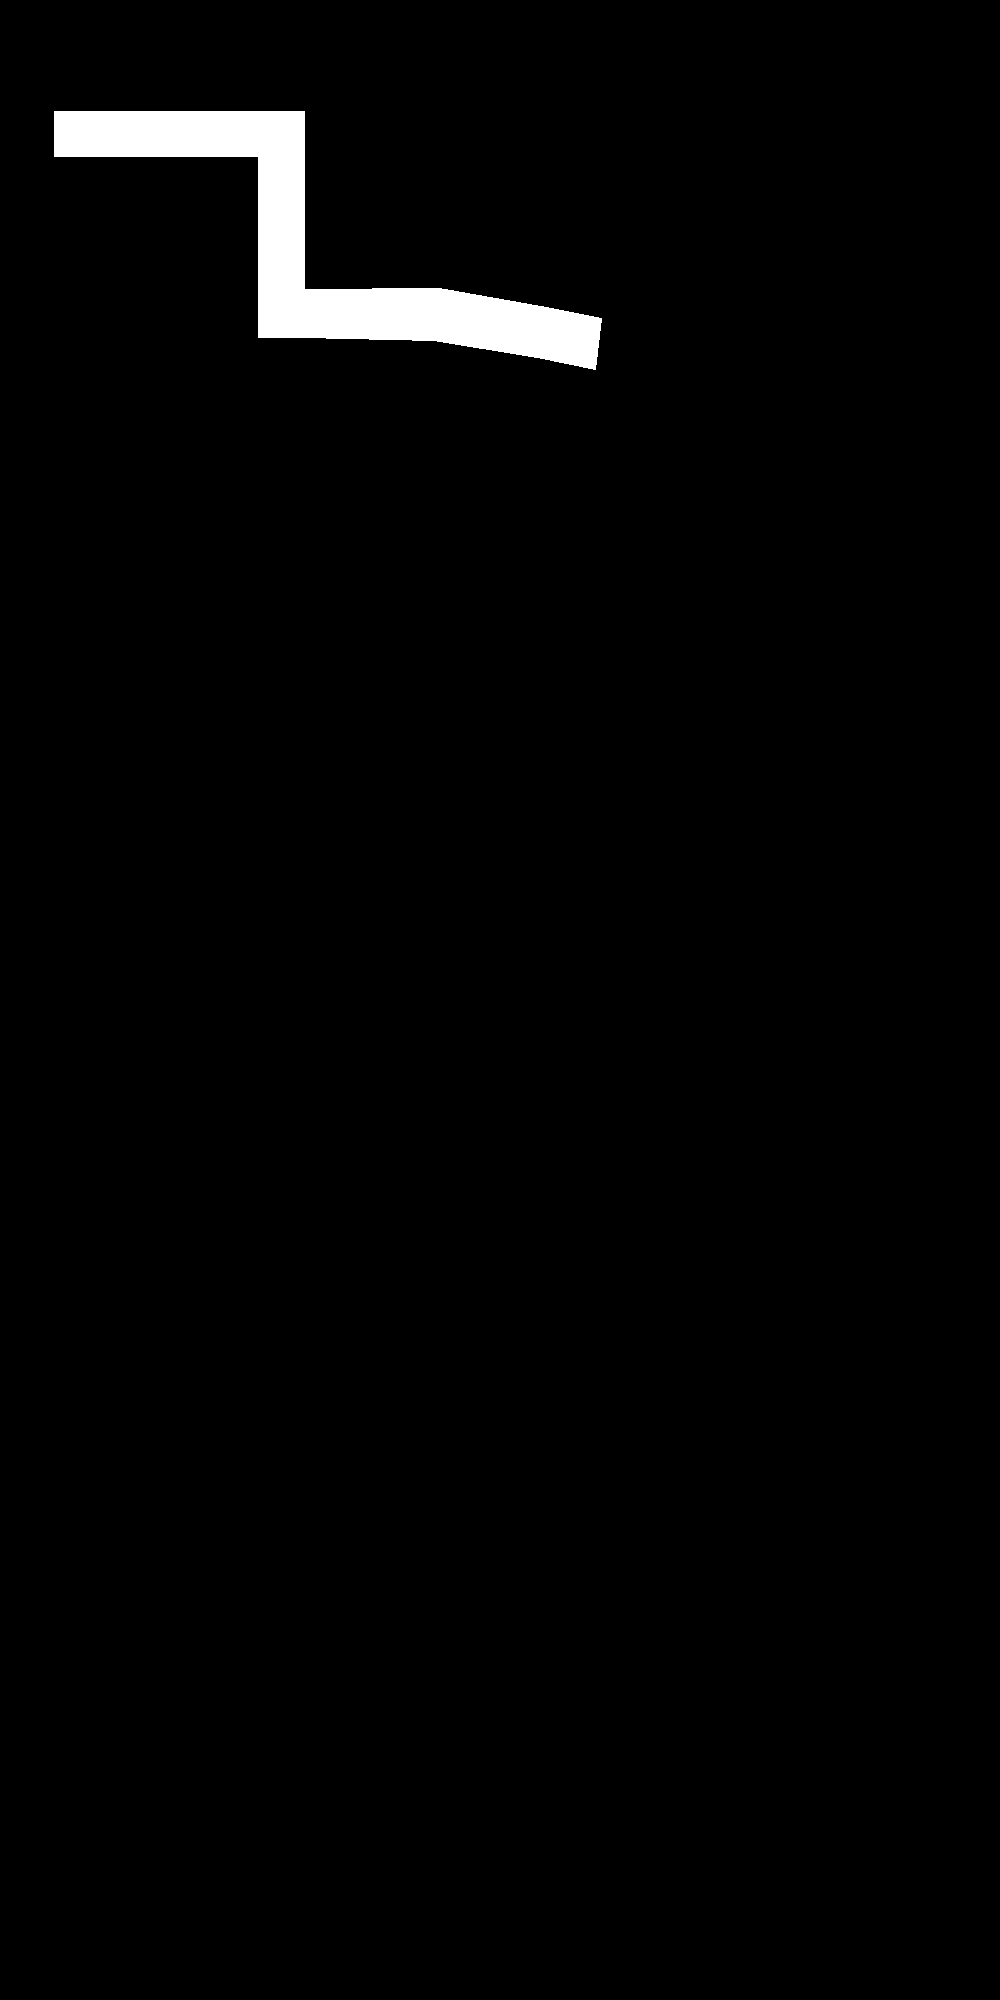
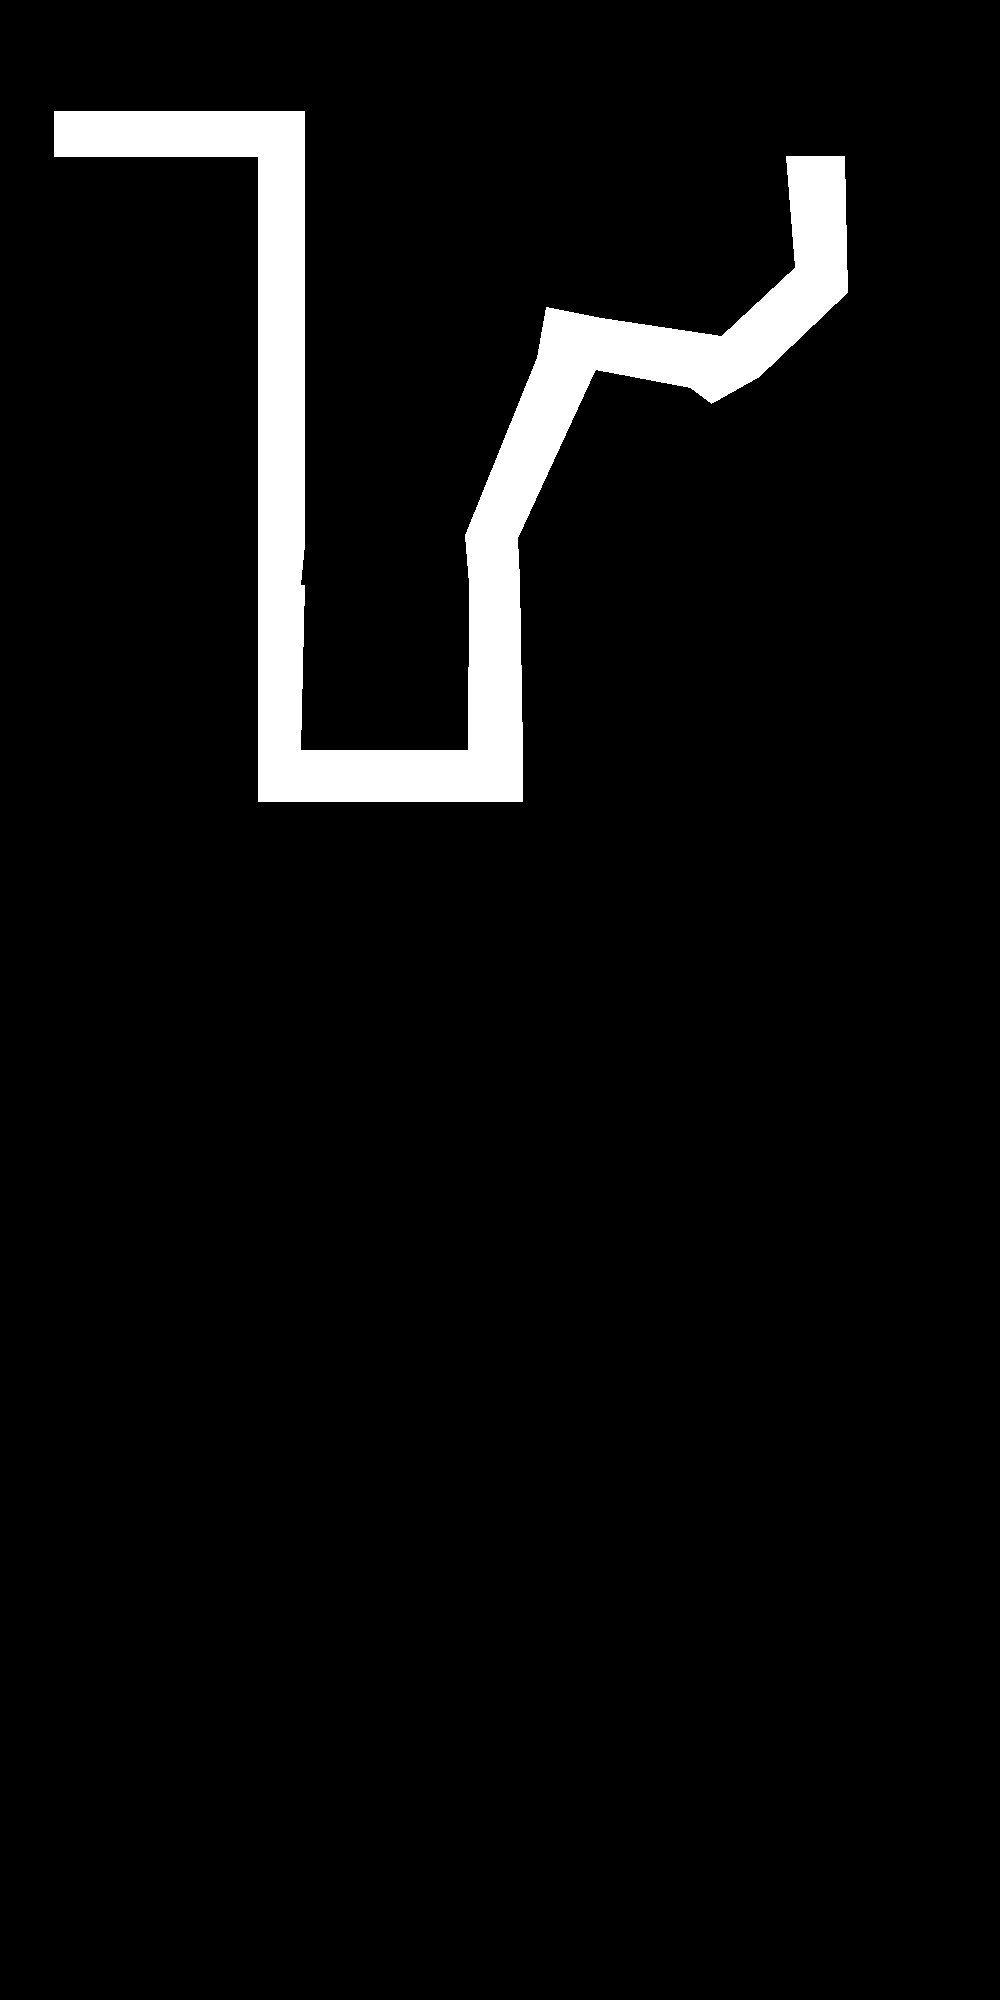
steering

Changed region(s): [[0.248, 0.062, 0.868, 0.403]]

diff --git a/test.py b/test.py
@@ -10,12 +10,13 @@ import math
 from utils import euclide_distance
 from distance import distance_to_borders, distance_to_obstacles
 from virtual_map import Map 
-from controller import get_steering_controller
+from controller import get_steering_controller, get_speed_controller
 
 import numpy as np 
 
 from obstacle import init_obstacle_from_pos
 steering_controller = get_steering_controller()
+speed_controller = get_speed_controller()
 
 ROAD_SCALE = 1.5
 
@@ -51,6 +52,7 @@ class Road():
             display.blit(self.textsurface, self.textsurface_loc)
 
     def clicked(self,display):
+        print(self.points)
         self.is_chosen = not self.is_chosen
         if self.is_chosen:
             self.color = (0,255,0)
@@ -61,7 +63,7 @@ class Road():
     def update(self):
         if self.type == 'intersection':
             self.count = (self.count+1)%self.time
-            self.textsurface = self.myfont.render(str(self.count), False, (0, 0, 0))
+            self.textsurface = self.myfont.render(str(6-self.count/10), False, (0, 0, 0))
             # self.draw(display)
             # 
             self.textsurface_loc = ((self.pts1[0]+self.pts3[0])/2,(self.pts1[1]+self.pts3[1])/2)
@@ -84,12 +86,13 @@ def rotate(origin, point, angle):
     return qx, qy
 
 class Car(pygame.sprite.Sprite):
-    def __init__(self, x, y, w, h, steering_controller, virtual_map, routes=None):
+    def __init__(self, x, y, w, h, steering_controller, speed_controller, virtual_map, routes=None):
         self.image = pygame.transform.scale(pygame.image.load("car.png"), (w,h))
         self.rect = self.image.get_rect()
         self.rect.left = x
         self.rect.top = y
         self.steering_controller = steering_controller
+        self.speed_controller = speed_controller
         # self.front_left = [x+w/2,y+h/2]
         # self.front_right = [x+w/2,y-h/2]
         # self.back_left = [x-w/2,y+h/2]
@@ -100,7 +103,7 @@ class Car(pygame.sprite.Sprite):
         self.routes = routes
         self.road_idx = 0
         self.virtual_map = virtual_map
-
+        self.speed=3
 
         # 
         self.distanceL = None 
@@ -213,22 +216,35 @@ class Car(pygame.sprite.Sprite):
         if self.distanceR45 is not None:
             pygame.draw.line(display, (255, 0, 0), self.front_right, self.impactR45)
 
+    def cal_speed(self):
+        
+        self.speed_controller.input['deviation'] = 100.0*self.distanceR /(self.distanceL+self.distanceR)
+        self.speed_controller.input['lightstatus'] = self.redlight_time
+        self.speed_controller.input['distance'] = min(100, self.redlight_distance)
+        self.speed_controller.compute()
+        # self.speed = min(self.speed, 3*self.speed_controller.output['speed']/100)
+        self.speed = 5*self.speed_controller.output['speed']/100
+        print(self.redlight_distance, self.speed)
+        # print(self.time2changeRedlight, self.distanceRedLight, self.speed
+
     def update(self, display):
         #
-        self.move_forward()
         self.compute_pos_sensors()
         if self.road_idx+1==len(self.routes):
             return False
         self.sensor_redlight()
         self.compute_distance()
+        # self.cal_speed()
         angle = self.cal_steering_angle()
         self.rotate(angle)
+        self.move_forward()
         self.draw(display)
         return True
     
     def cal_steering_angle(self):
-        print(self.distanceFL,self.distanceFR)
-        self.steering_controller.input['deviation'] = 100.0*self.distanceR45 /(self.distanceR45+self.distanceL45)
+        print(100.0*self.distanceR45 /(self.distanceR45+self.distanceL45))
+        self.steering_controller.input['deviation45'] = 100.0*self.distanceR45 /(self.distanceR45+self.distanceL45)
+        # self.steering_controller.input['deviation'] = 100.0*self.distanceR /(self.distanceR+self.distanceL)
         # self.steering_controller.input['deviation_back'] = 100.0*self.distanceBackR /(self.distanceBackL+self.distanceBackR)
         self.steering_controller.compute()
         # steering = math.radians(self.steering_controller.output['steering']-180)/900
@@ -238,7 +254,7 @@ class Car(pygame.sprite.Sprite):
         return steering
 
     def move_forward(self):
-        s = 3
+        s = self.speed
         curCenterX, curCenterY = self.rect.center
         newCenterX, newCenterY = int(curCenterX + s*math.cos(self.angle)), int(curCenterY - s*math.sin(self.angle))
         self.rect.center = (newCenterX, newCenterY)
@@ -264,6 +280,7 @@ class Car(pygame.sprite.Sprite):
     @staticmethod 
     def find_common_vertex(road1, road2):
         common_vertex = [pts for pts in road1.points if pts in road2.points ]
+        print(len(common_vertex))
         return common_vertex
 
     def sensor_redlight(self):
@@ -301,54 +318,55 @@ def main():
 
     
     # road1 = Road([0,0], [50,0], [50, 200] , [0,200])
-    # road2 = Road([0,200], [50,200], [50,250], [0,250], "intersection", 20)
+    # road2 = Road([0,200], [50,200], [50,250], [0,250], "intersection", TIME)
     # road3 = Road([50,200], [300, 200],[300,250], [50,250])
-    # road4 = Road([300,200], [350, 200], [350,250], [300,250], "intersection", 20)
+    # road4 = Road([300,200], [350, 200], [350,250], [300,250], "intersection", TIME)
     # road5 = Road([300,200], [350,200], [50, 0], [50,50])
     # roads = [road1, road2, road3, road4, road5]
+    TIME=100
     roads = [
-        Road([36,74], [72,74], [72, 104] , [36,104], "intersection", 20),
+        Road([36,74], [72,74], [72, 104] , [36,104], "intersection", TIME),
         Road([72,74], [172, 74], [172, 104] , [72,104]),
-        Road([172,74], [203, 74], [203, 104] , [172,104], "intersection", 20),
+        Road([172,74], [203, 74], [203, 104] , [172,104], "intersection", TIME),
         Road([203,74], [524, 74], [524, 104] , [203,104]),
-        Road([524,74], [563, 74], [563, 104] , [524,104], "intersection", 20),
+        Road([524,74], [563, 74], [563, 104] , [524,104], "intersection", TIME),
         Road([563,74], [713, 74], [713, 104] , [563,104]),
-        Road([713,74], [748, 74], [748, 104] , [713,104], "intersection", 20),
+        Road([713,74], [748, 74], [748, 104] , [713,104], "intersection", TIME),
         Road([36,104], [72, 104], [72, 193] , [36,193]),
-        Road([36,193], [72, 193], [72, 225] , [36,225], "intersection", 20),
+        Road([36,193], [72, 193], [72, 225] , [36,225], "intersection", TIME),
         Road([72,193], [172, 193], [172, 225] , [72,225]),
         Road([172,104], [203, 104], [203, 193] , [172,193]),
-        Road([172,193], [203, 193], [203, 225] , [172,225], "intersection", 20),
+        Road([172,193], [203, 193], [203, 225] , [172,225], "intersection", TIME),
         Road([203,193], [293, 192], [289, 227] , [203,225]),
         Road([293,192], [364, 205], [358, 238] , [289,227]),
-        Road([364,205], [401, 212], [397, 246] , [358,238], "intersection", 20),
+        Road([364,205], [401, 212], [397, 246] , [358,238], "intersection", TIME),
         Road([401,212], [481, 224], [460, 258] , [397,246]),
-        Road([481,224], [506, 251], [474, 269] , [460,258], "intersection", 20),
+        Road([481,224], [506, 251], [474, 269] , [460,258], "intersection", TIME),
         Road([506,251], [550, 303], [528, 323] , [474,269]),
-        Road([550,303], [574, 328], [543, 343] , [528,323], "intersection", 20),
+        Road([550,303], [574, 328], [543, 343] , [528,323], "intersection", TIME),
         Road([481,224], [506, 251], [565, 195] , [530,178]),
         Road([530,178], [565, 195], [563,104], [524, 104]),
         Road([550,303], [574, 328], [636,270], [615, 246]),
         Road([636,270], [615, 246], [713,243], [713, 269]),
-        Road([713,243], [748, 243], [748,269], [713, 269], "intersection", 20),
+        Road([713,243], [748, 243], [748,269], [713, 269], "intersection", TIME),
         Road([713,104], [748, 104], [748,243], [713, 243]),
         Road([713,269], [748, 269], [748,500], [713, 500]),
-        Road([713,500], [748, 500], [748,534], [713, 534], "intersection", 20),
+        Road([713,500], [748, 500], [748,534], [713, 534], "intersection", TIME),
         Road([580,500], [713, 500], [713,534], [580, 534]),
-        Road([545,500], [580, 500], [580,534], [545, 534], "intersection", 20),
+        Road([545,500], [580, 500], [580,534], [545, 534], "intersection", TIME),
         Road([543,343], [574, 328], [580,500], [545, 500]),
         Road([348,500], [545, 500], [545,534], [348, 534]),
-        Road([312,500], [348, 500], [348,534], [312, 534], "intersection", 20),
+        Road([312,500], [348, 500], [348,534], [312, 534], "intersection", TIME),
         Road([200,500], [312, 500], [312,534], [200, 534]),
-        Road([172,500], [200, 500], [200,534], [172, 534], "intersection", 20),
+        Road([172,500], [200, 500], [200,534], [172, 534], "intersection", TIME),
         Road([74,500], [172, 500], [172,534], [74, 534]),
-        Road([42,500], [74, 500], [74,534], [42, 534], "intersection", 20),
+        Road([42,500], [74, 500], [74,534], [42, 534], "intersection", TIME),
         Road([36,225], [72, 225], [74,500], [42, 500]),
         Road([172,225], [203, 225], [203,363], [172, 363]),
-        Road([172,363], [203, 363], [200,390], [172, 390], "intersection", 20),
+        Road([172,363], [203, 363], [200,390], [172, 390], "intersection", TIME),
         Road([172,390], [203, 390], [200,500], [172, 500]),
         Road([203,363], [310, 357], [313,389], [200, 390]),
-        Road([310,357], [345, 359], [346,386], [313, 389], "intersection", 20),
+        Road([310,357], [345, 359], [346,386], [313, 389], "intersection", TIME),
         Road([313,389], [346, 386], [348,500], [312, 500]),
         Road([358,238], [397, 246], [345, 359], [310,357]),
     ]
@@ -400,7 +418,7 @@ def main():
                 sys.exit()
             elif event.type == MOUSEBUTTONUP:
                 mousex, mousey = event.pos
-                car = Car(mousex,mousey,10,5, steering_controller,virtual_map ,routes)
+                car = Car(mousex,mousey,20,10, steering_controller, speed_controller,virtual_map ,routes)
                 car.draw(DISPLAY)
                 car_pick=True
         if car_pick:

diff --git a/controller.py b/controller.py
@@ -5,14 +5,21 @@ from skfuzzy import control as ctrl
 def get_steering_controller():
     # New Antecedent/Consequent objects hold universe variables and membership
     # functions
+    deviation45 = ctrl.Antecedent(np.arange(0, 101, 1), 'deviation45')
     deviation = ctrl.Antecedent(np.arange(0, 101, 1), 'deviation')
     steering = ctrl.Consequent(np.arange(0, 101, 1), 'steering')
 
-    deviation['farleft'] = fuzz.trapmf(deviation.universe, [0, 0, 35, 45])
-    deviation['left'] = fuzz.trimf(deviation.universe, [40, 45, 50])
+    deviation45['farleft'] = fuzz.trapmf(deviation45.universe, [0, 0, 30, 40])
+    deviation45['left'] = fuzz.trimf(deviation45.universe,[35, 40, 50])
+    deviation45['middle'] = fuzz.trimf(deviation45.universe, [40,50,50])
+    deviation45['right'] = fuzz.trimf(deviation45.universe, [50,60,65])
+    deviation45['farright'] = fuzz.trapmf(deviation45.universe,  [60,70,100,100])
+
+    deviation['farleft'] = fuzz.trapmf(deviation.universe, [0, 0, 25, 40])
+    deviation['left'] = fuzz.trimf(deviation.universe, [25, 40, 50])
     deviation['middle'] = fuzz.trimf(deviation.universe, [40,50,60])
-    deviation['right'] = fuzz.trimf(deviation.universe, [50,55,60])
-    deviation['farright'] = fuzz.trapmf(deviation.universe, [ 55,65,100,100])
+    deviation['right'] = fuzz.trimf(deviation.universe, [50,60,75])
+    deviation['farright'] = fuzz.trapmf(deviation.universe, [ 60,75,100,100])
 
     steering['farleft'] = fuzz.trapmf(steering.universe, [0, 0, 25, 40])
     steering['left'] = fuzz.trimf(steering.universe, [25, 40, 50])
@@ -20,13 +27,26 @@ def get_steering_controller():
     steering['right'] = fuzz.trimf(steering.universe, [50,60,75])
     steering['farright'] = fuzz.trapmf(steering.universe, [ 60,75,100,100])
 
-    rule1 = ctrl.Rule(deviation['farleft'], steering['farright'])
-    rule2 = ctrl.Rule(deviation['left'], steering['right'])
-    rule3 = ctrl.Rule(deviation['middle'], steering['middle'])
-    rule4 = ctrl.Rule(deviation['right'], steering['left'])
-    rule5 = ctrl.Rule(deviation['farright'], steering['farleft'])
-    steering_ctrl = ctrl.ControlSystem([rule1, rule2, rule3, rule4, rule5])
+    rule1 = ctrl.Rule(deviation45['farleft'], steering['farright'])
+    rule2 = ctrl.Rule(deviation45['left'], steering['right'])
+    rule3 = ctrl.Rule(deviation45['middle'], steering['middle'])
+    rule4 = ctrl.Rule(deviation45['right'], steering['left'])
+    rule5 = ctrl.Rule(deviation45['farright'], steering['farleft'])
 
+    # rule1 = ctrl.Rule(deviation['farleft'], steering['farright'])
+    # rule2 = ctrl.Rule(deviation['left'], steering['right'])
+    # rule3 = ctrl.Rule(deviation['middle'], steering['middle'])
+    # rule4 = ctrl.Rule(deviation['right'], steering['left'])
+    # rule5 = ctrl.Rule(deviation['farright'], steering['farleft'])
+
+    # rule3 = ctrl.Rule(deviation['farleft'] & deviation45['middle'], steering['farright'])
+    # rule6 = ctrl.Rule(deviation['left'] & deviation45['middle'], steering['right'])
+    # rule7 = ctrl.Rule(deviation['middle'] & deviation45['middle'], steering['middle'])
+    # rule8 = ctrl.Rule(deviation['right'] & deviation45['middle'], steering['left'])
+    # rule9 = ctrl.Rule(deviation['farright'] & deviation45['middle'], steering['farleft'])
+
+    # steering_ctrl = ctrl.ControlSystem([rule1, rule2, rule3, rule4, rule5, rule6, rule7, rule8, rule9])
+    steering_ctrl = ctrl.ControlSystem([rule1, rule2, rule3, rule4, rule5])
     steering_controller = ctrl.ControlSystemSimulation(steering_ctrl)
     return steering_controller
 

diff --git a/virtual_map.py b/virtual_map.py
@@ -10,7 +10,7 @@ class Map():
         for road in routes:
             print(np.array(road.points).astype(np.int32).shape)
             cv2.fillPoly(self.map, pts=[np.array(road.points).astype(np.int32)], color=(CHOICE_ROAD))
-        
+        cv2.imwrite('routes.png', self.map*255)
 
     def drawObstacle(self, obstacles):
         for obstacle in obstacles:
